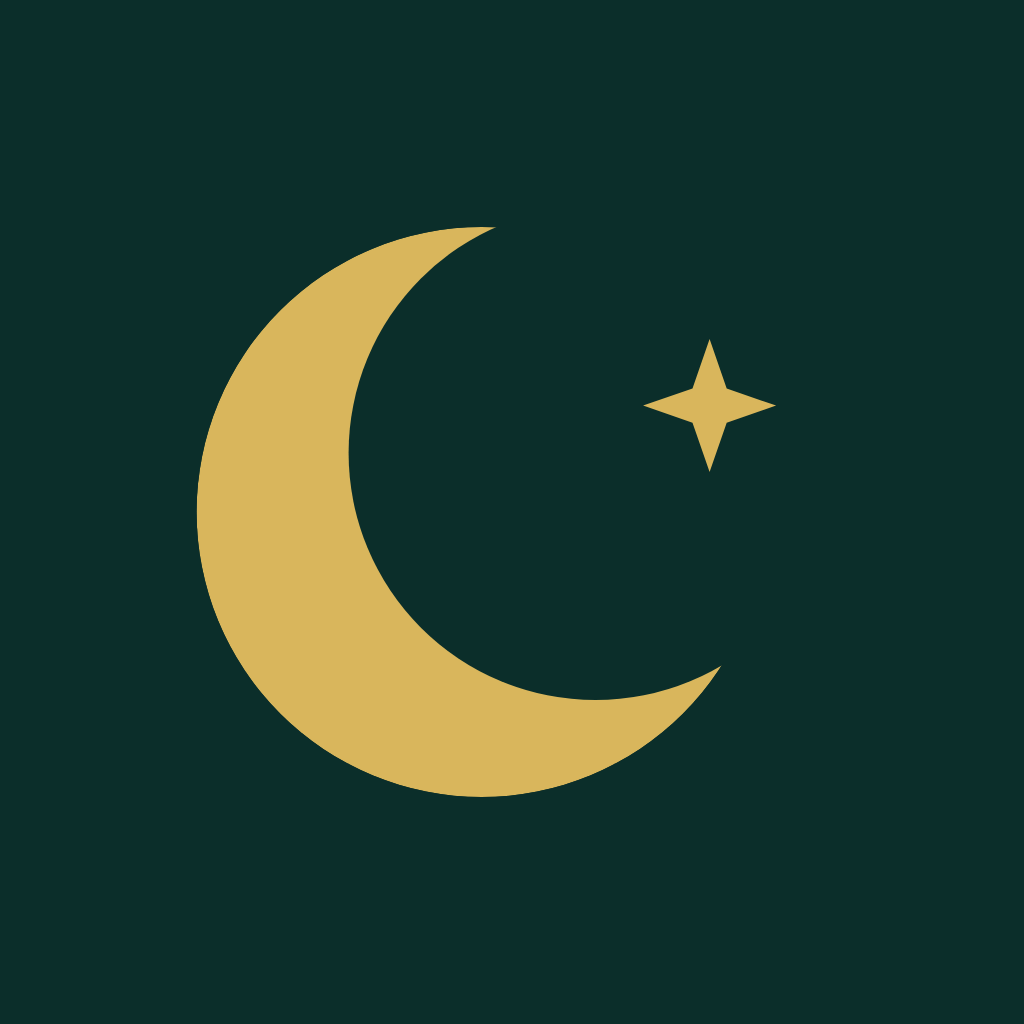
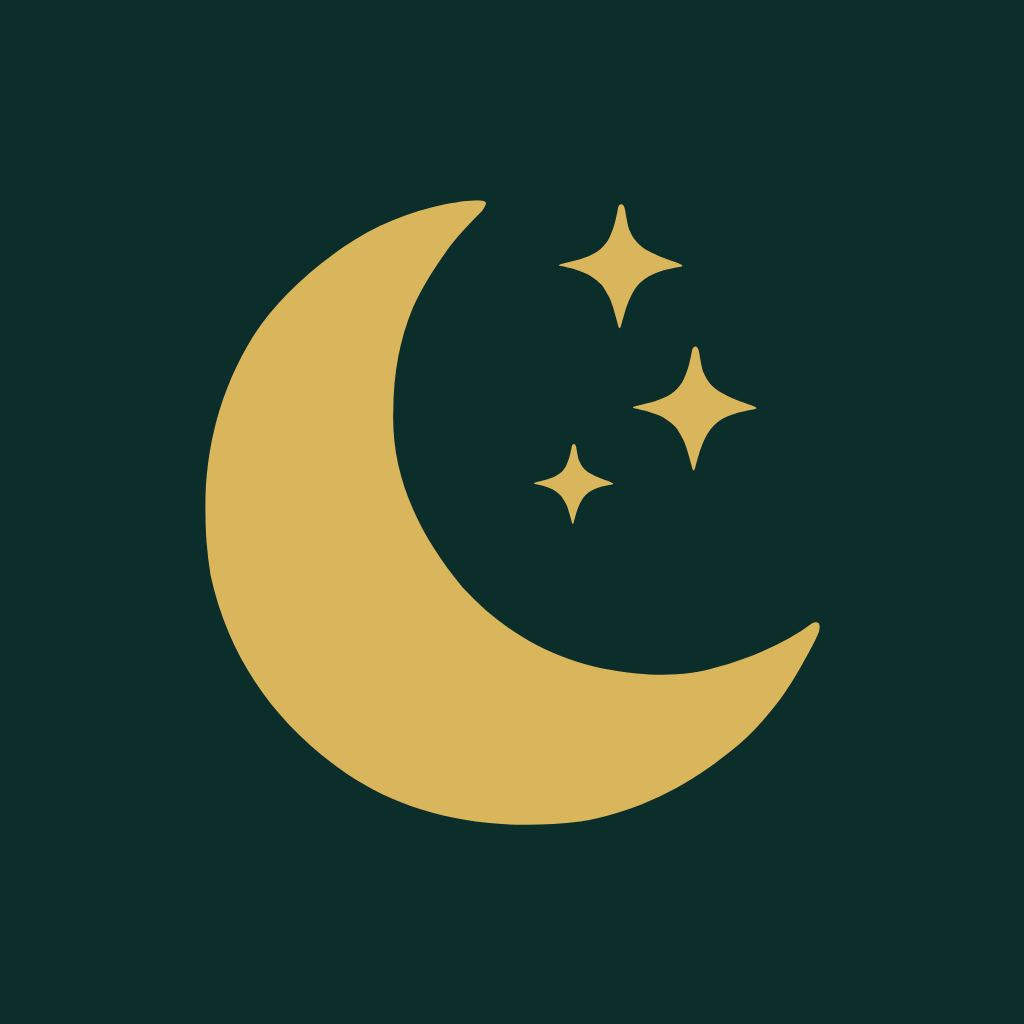
Adopt the new brand mark and add an animated opening
The two SVGs arrived with their names swapped: baraka-icon.svg held the
"baraka stories" wordmark and baraka-logo.svg held the crescent mark. Renamed
so each file is what it says, since everything downstream reads by name.

Every app icon is now regenerated from the mark: the launcher icon, the Android
adaptive foreground and its monochrome twin for themed icons, the splash art,
and both favicons. Same brand gold on the same deep green as before, so the
identity does not shift — only the artwork, which now carries three sparkles
instead of one. No paths in app.json changed.

The opening animation plays the relationship the artwork already has: the
crescent is the letter C in "baraka", so it spins, shrinks and settles into
exactly that slot while the wordmark fades up around it. The landing is
measured rather than eyeballed — both files share a 1500 viewBox, the crescent
inside the wordmark sits at (936.9, 619.5) at 189.2 units across, and the
component derives its end scale and offset from those numbers, so it stays
correct at any screen size.

Drawn in SVG rather than played as a video. A video would need a fixed
resolution, a background that never quite matches the splash, and a decoder on
the critical path of a cold start; vectors stay sharp at every density, weigh
almost nothing, and need no new dependency — react-native-svg is already here.

The handoff from the native splash is the part that sells it: the native splash
[…]

diff --git a/apps/mobile/src/brand/artwork.ts b/apps/mobile/src/brand/artwork.ts
@@ -1,0 +1,32 @@
+/**
+ * Brand artwork as inline SVG, for `SvgXml` from react-native-svg.
+ *
+ * Generated from `apps/mobile/assets/baraka-icon.svg` (the crescent mark) and
+ * `apps/mobile/assets/baraka-logo.svg` (the "baraka stories" wordmark), with the
+ * white fills swapped for brand colours. Regenerate rather than hand-edit.
+ *
+ * Both share a 1500x1500 viewBox, which is what lets the splash animation line
+ * the standalone mark up exactly with the crescent inside the wordmark.
+ */
+
+/** Shared viewBox of both files. */
+export const BRAND_VIEWBOX = 1500;
+
+/**
+ * Where the crescent sits inside the wordmark, in viewBox units, measured from
+ * the artwork itself: x 842.3, y 523.3, 189.2 wide, 192.4 tall.
+ */
+export const WORDMARK_MARK_CENTRE = { x: 936.9, y: 619.5 } as const;
+
+/** The mark's drawn content relative to its own canvas: centred, 92.7% wide. */
+export const MARK_CONTENT_RATIO = 0.927;
+export const MARK_CONTENT_SIZE = 1390.5;
+
+/** Scale that makes the standalone mark match the wordmark's crescent. */
+export const MARK_END_SCALE = 189.2 / MARK_CONTENT_SIZE;
+
+export const BARAKA_MARK =
+  '<svg xmlns="http://www.w3.org/2000/svg" xmlns:xlink="http://www.w3.org/1999/xlink" width="2000" zoomAndPan="magnify" viewBox="0 0 1500 1499.999933" height="2000" preserveAspectRatio="xMidYMid meet" version="1.0"><defs><clipPath id="e9aa5293ed"><path d="M 54.765625 43.28125 L 1445.261719 43.28125 L 1445.261719 1457 L 54.765625 1457 Z M 54.765625 43.28125 " clip-rule="nonzero"/></clipPath></defs><g clip-path="url(#e9aa5293ed)"><path fill="#d9b65c" d="M 599.808594 51.78125 L 612.984375 49.683594 C 669.199219 40.246094 694.625 41.34375 689.25 52.972656 C 688.203125 57.46875 684.9375 62.933594 679.453125 69.363281 C 638.554688 110.347656 611.566406 141.199219 598.492188 161.917969 C 566.996094 206.132812 542.433594 247.5 524.808594 286.011719 C 495.1875 356.742188 480.34375 435.527344 480.277344 522.375 C 476.054688 656.3125 528.390625 788.703125 637.296875 919.539062 C 743.265625 1035.222656 874.492188 1100.101562 1030.980469 1114.183594 C 1098.550781 1120.5625 1158.132812 1116.066406 1209.71875 1100.707031 C 1296.359375 1077.210938 1369.113281 1043.738281 1427.992188 1000.300781 C 1437.855469 996.621094 1443.5 998.515625 1444.921875 1005.972656 C 1446.75 1012.410156 1441.957031 1026.179688 1430.527344 1047.285156 C 1402.074219 1101.398438 1377.78125 1142.121094 1357.640625 1169.453125 C 1319.757812 1220.515625 1281.957031 1260.609375 1244.242188 1289.75 C 1138.160156 1375.667969 1024.675781 1428.816406 903.796875 1449.191406 C 694.636719 1473.691406 518.0625 1437.5 374.074219 1340.609375 C 209.664062 1226.398438 107.175781 1076.539062 66.613281 891.027344 C 35.085938 687.289062 66.839844 508.136719 161.867188 353.570312 C 208.308594 280.3125 277.359375 211.933594 369.019531 148.425781 C 437.402344 101.355469 514.332031 69.140625 599.808594 51.78125 " fill-opacity="1" fill-rule="nonzero"/></g><path fill="#d9b65c" d="M 988.007812 65.558594 L 986.101562 74.738281 C 982.742188 93.394531 977.351562 110.734375 969.945312 126.765625 C 964.824219 137.324219 957.679688 146.574219 948.511719 154.515625 C 938.875 162.316406 927.347656 168.519531 913.925781 173.117188 C 906.621094 176.183594 888.144531 181.21875 858.507812 188.210938 C 855.910156 189.015625 854.730469 189.746094 854.964844 190.417969 C 855.332031 191.070312 857.105469 191.765625 860.292969 192.5 C 878.113281 196.457031 888.15625 198.878906 890.421875 199.78125 C 896.886719 201.617188 903.582031 203.957031 910.503906 206.804688 C 924.734375 212.347656 937.527344 220.828125 948.867188 232.25 C 952.371094 234.472656 958.898438 244.605469 968.449219 262.65625 C 973.117188 270.589844 980.066406 292.417969 989.289062 328.152344 C 990.339844 331.453125 991.328125 333.144531 992.273438 333.222656 C 993.316406 333.011719 994.378906 331.160156 995.457031 327.671875 C 1003.71875 297.8125 1008.078125 282.972656 1008.527344 283.167969 C 1011.125 275.617188 1014.242188 268.078125 1017.878906 260.558594 C 1021.511719 253.035156 1025.789062 246.007812 1030.714844 239.46875 L 1038.671875 230.378906 L 1047.722656 222.648438 C 1054.132812 217.976562 1060.90625 214.074219 1068.03125 210.945312 C 1075.15625 207.816406 1082.214844 205.265625 1089.21875 203.289062 C 1089.242188 202.738281 1102.757812 199.722656 1129.757812 194.238281 C 1132.839844 193.460938 1134.40625 192.589844 1134.46875 191.621094 L 1133.222656 189.972656 L 1124.28125 185.730469 C 1096.457031 175.914062 1078.019531 168.734375 1068.960938 164.199219 C 1052.378906 155.617188 1043.101562 150.085938 1041.136719 147.605469 C 1035.921875 143.410156 1031.488281 138.953125 1027.816406 134.230469 L 1022.777344 127.058594 C 1019.761719 122.1875 1017.285156 117.265625 1015.355469 112.304688 C 1012.738281 108.667969 1009.171875 92.84375 1004.660156 64.832031 C 1004.0625 61.765625 1002.855469 58.660156 1001.058594 55.507812 C 998.574219 51.960938 995.769531 51.410156 992.632812 53.847656 C 989.957031 55.886719 988.414062 59.792969 988.007812 65.558594 " fill-opacity="1" fill-rule="nonzero"/><path fill="#d9b65c" d="M 1155.488281 387.558594 L 1153.582031 396.738281 C 1150.214844 415.394531 1144.835938 432.730469 1137.429688 448.761719 C 1132.304688 459.324219 1125.15625 468.578125 1115.992188 476.511719 C 1106.359375 484.3125 1094.828125 490.515625 1081.40625 495.109375 C 1074.09375 498.179688 1055.625 503.210938 1025.988281 510.210938 C 1023.386719 511.007812 1022.207031 511.746094 1022.441406 512.410156 C 1022.804688 513.0625 1024.585938 513.757812 1027.765625 514.503906 C 1045.59375 518.453125 1055.636719 520.878906 1057.898438 521.777344 C 1064.363281 523.617188 1071.054688 525.960938 1077.976562 528.804688 C 1092.214844 534.34375 1105.003906 542.824219 1116.347656 554.242188 C 1119.847656 556.46875 1126.371094 566.605469 1135.925781 584.648438 C 1140.597656 592.582031 1147.542969 614.417969 1156.773438 650.144531 C 1157.8125 653.453125 1158.808594 655.144531 1159.75 655.214844 C 1160.796875 655.007812 1161.859375 653.160156 1162.933594 649.671875 C 1171.203125 619.8125 1175.558594 604.976562 1176.007812 605.160156 C 1178.601562 597.609375 1181.722656 590.078125 1185.355469 582.558594 C 1188.992188 575.039062 1193.269531 568.007812 1198.191406 561.464844 L 1206.15625 552.375 L 1215.199219 544.644531 C 1221.617188 539.976562 1228.378906 536.074219 1235.503906 532.945312 C 1242.628906 529.8125 1249.695312 527.261719 1256.699219 525.28125 C 1256.726562 524.738281 1270.238281 521.71875 1297.238281 516.234375 C 1300.320312 515.460938 1301.890625 514.585938 1301.949219 513.617188 L 1300.695312 511.96875 L 1291.757812 507.726562 C 1263.941406 497.910156 1245.5 490.730469 1236.441406 486.195312 C 1219.851562 477.613281 1210.582031 472.082031 1208.613281 469.601562 C 1203.40625 465.40625 1198.964844 460.949219 1195.296875 456.226562 L 1190.257812 449.058594 C 1187.242188 444.183594 1184.769531 439.261719 1182.832031 434.300781 C 1180.214844 430.667969 1176.648438 414.84375 1172.136719 386.828125 C 1171.535156 383.765625 1170.339844 380.65625 1168.535156 377.511719 C 1166.054688 373.964844 1163.242188 373.410156 1160.109375 375.851562 C 1157.4375 377.886719 1155.898438 381.789062 1155.488281 387.558594 " fill-opacity="1" fill-rule="nonzero"/><path fill="#d9b65c" d="M 883.507812 603.441406 L 882.277344 609.355469 C 880.109375 621.375 876.640625 632.550781 871.871094 642.882812 C 868.566406 649.691406 863.960938 655.652344 858.058594 660.765625 C 851.84375 665.796875 844.414062 669.789062 835.765625 672.753906 C 831.054688 674.734375 819.148438 677.976562 800.050781 682.488281 C 798.371094 683.003906 797.613281 683.476562 797.765625 683.902344 C 798 684.328125 799.144531 684.777344 801.195312 685.25 C 812.6875 687.796875 819.160156 689.359375 820.617188 689.941406 C 824.78125 691.121094 829.09375 692.632812 833.554688 694.464844 C 842.734375 698.039062 850.972656 703.503906 858.285156 710.859375 C 860.539062 712.300781 864.746094 718.832031 870.90625 730.460938 C 873.914062 735.574219 878.390625 749.644531 884.332031 772.671875 C 885.011719 774.800781 885.652344 775.890625 886.257812 775.9375 C 886.929688 775.800781 887.617188 774.609375 888.304688 772.367188 C 893.632812 753.121094 896.445312 743.554688 896.730469 743.679688 C 898.410156 738.816406 900.417969 733.957031 902.761719 729.109375 C 905.101562 724.265625 907.859375 719.734375 911.03125 715.515625 L 916.160156 709.664062 L 921.988281 704.675781 C 926.125 701.667969 930.488281 699.152344 935.078125 697.136719 C 939.671875 695.121094 944.222656 693.476562 948.738281 692.199219 C 948.75 691.847656 957.457031 689.898438 974.859375 686.371094 C 976.851562 685.867188 977.863281 685.308594 977.898438 684.679688 L 977.097656 683.621094 L 971.332031 680.886719 C 953.402344 674.558594 941.519531 669.933594 935.675781 667.007812 C 924.992188 661.476562 919.015625 657.914062 917.746094 656.3125 C 914.390625 653.609375 911.527344 650.738281 909.164062 647.695312 L 905.914062 643.074219 C 903.96875 639.933594 902.375 636.765625 901.128906 633.566406 C 899.445312 631.222656 897.144531 621.023438 894.238281 602.96875 C 893.847656 600.996094 893.078125 598.988281 891.921875 596.964844 C 890.320312 594.675781 888.511719 594.320312 886.484375 595.890625 C 884.765625 597.203125 883.769531 599.71875 883.507812 603.441406 " fill-opacity="1" fill-rule="nonzero"/></svg>';
+
+export const BARAKA_WORDMARK =
+  '<svg xmlns="http://www.w3.org/2000/svg" xmlns:xlink="http://www.w3.org/1999/xlink" width="2000" zoomAndPan="magnify" viewBox="0 0 1500 1499.999933" height="2000" preserveAspectRatio="xMidYMid meet" version="1.0"><defs><g/><clipPath id="19de97c259"><rect x="0" width="193" y="0" height="471"/></clipPath><clipPath id="ce127fbe94"><path d="M 842.226562 523.296875 L 1031.226562 523.296875 L 1031.226562 716 L 842.226562 716 Z M 842.226562 523.296875 " clip-rule="nonzero"/></clipPath></defs><g transform="matrix(1, 0, 0, 1, 1031, 342)"><g clip-path="url(#19de97c259)"><g fill="#f3efe4" fill-opacity="1"><g transform="translate(0.47682, 368.758115)"><g><path d="M 72.421875 3.53125 C 60.515625 3.53125 50.179688 1.339844 41.421875 -3.03125 C 32.671875 -7.40625 25.9375 -13.832031 21.21875 -22.3125 C 16.5 -30.789062 14.140625 -40.984375 14.140625 -52.890625 C 14.140625 -63.890625 16.5 -73.125 21.21875 -80.59375 C 25.9375 -88.0625 33.234375 -94.179688 43.109375 -98.953125 C 52.992188 -103.722656 65.910156 -107.398438 81.859375 -109.984375 C 92.972656 -111.773438 101.421875 -113.738281 107.203125 -115.875 C 112.984375 -118.007812 116.882812 -120.421875 118.90625 -123.109375 C 120.925781 -125.804688 121.9375 -129.234375 121.9375 -133.390625 C 121.9375 -139.347656 119.859375 -143.894531 115.703125 -147.03125 C 111.554688 -150.175781 104.65625 -151.75 95 -151.75 C 84.664062 -151.75 74.835938 -149.445312 65.515625 -144.84375 C 56.191406 -140.238281 48.109375 -134.175781 41.265625 -126.65625 L 37.890625 -126.65625 L 18.359375 -156.125 C 27.785156 -166.570312 39.289062 -174.710938 52.875 -180.546875 C 66.46875 -186.390625 81.289062 -189.3125 97.34375 -189.3125 C 121.9375 -189.3125 139.734375 -184.085938 150.734375 -173.640625 C 161.742188 -163.203125 167.25 -148.382812 167.25 -129.1875 L 167.25 -48.5 C 167.25 -40.195312 170.894531 -36.046875 178.1875 -36.046875 C 181 -36.046875 183.753906 -36.550781 186.453125 -37.5625 L 188.8125 -36.890625 L 192.171875 -4.375 C 189.585938 -2.695312 185.992188 -1.320312 181.390625 -0.25 C 176.785156 0.808594 171.734375 1.34375 166.234375 1.34375 C 155.117188 1.34375 146.445312 -0.785156 140.21875 -5.046875 C 133.988281 -9.316406 129.523438 -16 126.828125 -25.09375 L 123.28125 -25.4375 C 114.1875 -6.125 97.234375 3.53125 72.421875 3.53125 Z M 87.25 -31.328125 C 98.019531 -31.328125 106.632812 -34.945312 113.09375 -42.1875 C 119.550781 -49.425781 122.78125 -59.503906 122.78125 -72.421875 L 122.78125 -91.28125 L 119.578125 -91.953125 C 116.773438 -89.710938 113.097656 -87.832031 108.546875 -86.3125 C 104.003906 -84.800781 97.460938 -83.316406 88.921875 -81.859375 C 78.816406 -80.171875 71.546875 -77.273438 67.109375 -73.171875 C 62.679688 -69.078125 60.46875 -63.269531 60.46875 -55.75 C 60.46875 -47.78125 62.820312 -41.71875 67.53125 -37.5625 C 72.25 -33.40625 78.820312 -31.328125 87.25 -31.328125 Z M 87.25 -31.328125 "/></g></g></g></g></g><g fill="#f3efe4" fill-opacity="1"><g transform="translate(196.851549, 719.188044)"><g><path d="M 129.84375 3.53125 C 106.15625 3.53125 88.53125 -5.335938 76.96875 -23.078125 L 73.4375 -22.40625 L 73.4375 0 L 26.78125 0 L 26.78125 -260.375 L 73.4375 -260.375 L 73.4375 -163.875 L 76.96875 -163.203125 C 83.363281 -172.066406 90.910156 -178.628906 99.609375 -182.890625 C 108.316406 -187.160156 118.734375 -189.296875 130.859375 -189.296875 C 145.898438 -189.296875 159.035156 -185.757812 170.265625 -178.6875 C 181.492188 -171.613281 190.25 -160.863281 196.53125 -146.4375 C 202.820312 -132.007812 205.96875 -114.128906 205.96875 -92.796875 C 205.96875 -71.691406 202.710938 -53.925781 196.203125 -39.5 C 189.691406 -25.070312 180.707031 -14.289062 169.25 -7.15625 C 157.800781 -0.03125 144.664062 3.53125 129.84375 3.53125 Z M 115.703125 -36.046875 C 129.398438 -36.046875 139.84375 -40.617188 147.03125 -49.765625 C 154.21875 -58.921875 157.8125 -73.265625 157.8125 -92.796875 C 157.8125 -112.441406 154.21875 -126.835938 147.03125 -135.984375 C 139.84375 -145.140625 129.398438 -149.71875 115.703125 -149.71875 C 102.566406 -149.71875 92.148438 -145.003906 84.453125 -135.578125 C 76.765625 -126.148438 72.921875 -111.890625 72.921875 -92.796875 C 72.921875 -73.710938 76.765625 -59.484375 84.453125 -50.109375 C 92.148438 -40.734375 102.566406 -36.046875 115.703125 -36.046875 Z M 115.703125 -36.046875 "/></g></g></g><g fill="#f3efe4" fill-opacity="1"><g transform="translate(382.082423, 719.188044)"><g><path d="M 72.421875 3.53125 C 60.515625 3.53125 50.179688 1.339844 41.421875 -3.03125 C 32.671875 -7.40625 25.9375 -13.832031 21.21875 -22.3125 C 16.5 -30.789062 14.140625 -40.984375 14.140625 -52.890625 C 14.140625 -63.890625 16.5 -73.117188 21.21875 -80.578125 C 25.9375 -88.046875 33.234375 -94.164062 43.109375 -98.9375 C 52.992188 -103.71875 65.910156 -107.398438 81.859375 -109.984375 C 92.972656 -111.773438 101.421875 -113.738281 107.203125 -115.875 C 112.984375 -118.007812 116.882812 -120.421875 118.90625 -123.109375 C 120.925781 -125.804688 121.9375 -129.234375 121.9375 -133.390625 C 121.9375 -139.335938 119.859375 -143.882812 115.703125 -147.03125 C 111.546875 -150.175781 104.640625 -151.75 94.984375 -151.75 C 84.660156 -151.75 74.835938 -149.445312 65.515625 -144.84375 C 56.191406 -140.238281 48.109375 -134.175781 41.265625 -126.65625 L 37.890625 -126.65625 L 18.359375 -156.125 C 27.785156 -166.5625 39.289062 -174.695312 52.875 -180.53125 C 66.46875 -186.375 81.289062 -189.296875 97.34375 -189.296875 C 121.9375 -189.296875 139.734375 -184.078125 150.734375 -173.640625 C 161.734375 -163.203125 167.234375 -148.378906 167.234375 -129.171875 L 167.234375 -48.5 C 167.234375 -40.195312 170.882812 -36.046875 178.1875 -36.046875 C 180.988281 -36.046875 183.738281 -36.550781 186.4375 -37.5625 L 188.796875 -36.890625 L 192.171875 -4.375 C 189.585938 -2.695312 185.992188 -1.320312 181.390625 -0.25 C 176.785156 0.808594 171.734375 1.34375 166.234375 1.34375 C 155.117188 1.34375 146.441406 -0.785156 140.203125 -5.046875 C 133.972656 -9.316406 129.507812 -16 126.8125 -25.09375 L 123.28125 -25.4375 C 114.1875 -6.125 97.234375 3.53125 72.421875 3.53125 Z M 87.234375 -31.328125 C 98.015625 -31.328125 106.632812 -34.945312 113.09375 -42.1875 C 119.550781 -49.425781 122.78125 -59.503906 122.78125 -72.421875 L 122.78125 -91.28125 L 119.578125 -91.953125 C 116.765625 -89.710938 113.082031 -87.832031 108.53125 -86.3125 C 103.988281 -84.800781 97.453125 -83.316406 88.921875 -81.859375 C 78.816406 -80.171875 71.546875 -77.273438 67.109375 -73.171875 C 62.679688 -69.078125 60.46875 -63.269531 60.46875 -55.75 C 60.46875 -47.769531 62.820312 -41.703125 67.53125 -37.546875 C 72.25 -33.398438 78.816406 -31.328125 87.234375 -31.328125 Z M 87.234375 -31.328125 "/></g></g></g><g fill="#f3efe4" fill-opacity="1"><g transform="translate(540.70288, 719.188044)"><g><path d="M 26.78125 0 L 26.78125 -185.765625 L 72.078125 -185.765625 L 72.078125 -158.140625 L 75.625 -157.46875 C 80.113281 -167.800781 86.003906 -175.378906 93.296875 -180.203125 C 100.597656 -185.035156 109.472656 -187.453125 119.921875 -187.453125 C 130.472656 -187.453125 138.5 -185.65625 144 -182.0625 L 136.078125 -141.8125 L 132.546875 -141.140625 C 129.515625 -142.367188 126.59375 -143.265625 123.78125 -143.828125 C 120.976562 -144.390625 117.554688 -144.671875 113.515625 -144.671875 C 100.492188 -144.671875 90.554688 -140.09375 83.703125 -130.9375 C 76.859375 -121.789062 73.4375 -107.113281 73.4375 -86.90625 L 73.4375 0 Z M 26.78125 0 "/></g></g></g><g fill="#f3efe4" fill-opacity="1"><g transform="translate(645.597241, 719.188044)"><g><path d="M 72.421875 3.53125 C 60.515625 3.53125 50.179688 1.339844 41.421875 -3.03125 C 32.671875 -7.40625 25.9375 -13.832031 21.21875 -22.3125 C 16.5 -30.789062 14.140625 -40.984375 14.140625 -52.890625 C 14.140625 -63.890625 16.5 -73.117188 21.21875 -80.578125 C 25.9375 -88.046875 33.234375 -94.164062 43.109375 -98.9375 C 52.992188 -103.71875 65.910156 -107.398438 81.859375 -109.984375 C 92.972656 -111.773438 101.421875 -113.738281 107.203125 -115.875 C 112.984375 -118.007812 116.882812 -120.421875 118.90625 -123.109375 C 120.925781 -125.804688 121.9375 -129.234375 121.9375 -133.390625 C 121.9375 -139.335938 119.859375 -143.882812 115.703125 -147.03125 C 111.546875 -150.175781 104.640625 -151.75 94.984375 -151.75 C 84.660156 -151.75 74.835938 -149.445312 65.515625 -144.84375 C 56.191406 -140.238281 48.109375 -134.175781 41.265625 -126.65625 L 37.890625 -126.65625 L 18.359375 -156.125 C 27.785156 -166.5625 39.289062 -174.695312 52.875 -180.53125 C 66.46875 -186.375 81.289062 -189.296875 97.34375 -189.296875 C 121.9375 -189.296875 139.734375 -184.078125 150.734375 -173.640625 C 161.734375 -163.203125 167.234375 -148.378906 167.234375 -129.171875 L 167.234375 -48.5 C 167.234375 -40.195312 170.882812 -36.046875 178.1875 -36.046875 C 180.988281 -36.046875 183.738281 -36.550781 186.4375 -37.5625 L 188.796875 -36.890625 L 192.171875 -4.375 C 189.585938 -2.695312 185.992188 -1.320312 181.390625 -0.25 C 176.785156 0.808594 171.734375 1.34375 166.234375 1.34375 C 155.117188 1.34375 146.441406 -0.785156 140.203125 -5.046875 C 133.972656 -9.316406 129.507812 -16 126.8125 -25.09375 L 123.28125 -25.4375 C 114.1875 -6.125 97.234375 3.53125 72.421875 3.53125 Z M 87.234375 -31.328125 C 98.015625 -31.328125 106.632812 -34.945312 113.09375 -42.1875 C 119.550781 -49.425781 122.78125 -59.503906 122.78125 -72.421875 L 122.78125 -91.28125 L 119.578125 -91.953125 C 116.765625 -89.710938 113.082031 -87.832031 108.53125 -86.3125 C 103.988281 -84.800781 97.453125 -83.316406 88.921875 -81.859375 C 78.816406 -80.171875 71.546875 -77.273438 67.109375 -73.171875 C 62.679688 -69.078125 60.46875 -63.269531 60.46875 -55.75 C 60.46875 -47.769531 62.820312 -41.703125 67.53125 -37.546875 C 72.25 -33.398438 78.816406 -31.328125 87.234375 -31.328125 Z M 87.234375 -31.328125 "/></g></g></g><g clip-path="url(#ce127fbe94)"><path fill="#f3efe4" d="M 916.410156 524.453125 L 918.203125 524.167969 C 925.851562 522.886719 929.3125 523.035156 928.582031 524.617188 C 928.441406 525.230469 927.996094 525.972656 927.25 526.847656 C 921.683594 532.425781 918.007812 536.625 916.230469 539.445312 C 911.941406 545.460938 908.601562 551.09375 906.199219 556.335938 C 902.167969 565.960938 900.148438 576.683594 900.140625 588.503906 C 899.566406 606.734375 906.6875 624.75 921.511719 642.558594 C 935.933594 658.304688 953.792969 667.132812 975.09375 669.050781 C 984.289062 669.917969 992.398438 669.308594 999.417969 667.214844 C 1011.210938 664.019531 1021.113281 659.464844 1029.128906 653.550781 C 1030.46875 653.050781 1031.238281 653.308594 1031.429688 654.324219 C 1031.679688 655.199219 1031.027344 657.074219 1029.472656 659.945312 C 1025.601562 667.308594 1022.292969 672.851562 1019.550781 676.574219 C 1014.394531 683.523438 1009.25 688.980469 1004.117188 692.945312 C 989.679688 704.640625 974.234375 711.875 957.78125 714.644531 C 929.316406 717.980469 905.28125 713.054688 885.6875 699.867188 C 863.308594 684.324219 849.359375 663.925781 843.839844 638.679688 C 839.546875 610.949219 843.871094 586.566406 856.804688 565.53125 C 863.125 555.558594 872.523438 546.253906 884.996094 537.609375 C 894.304688 531.203125 904.777344 526.816406 916.410156 524.453125 " fill-opacity="1" fill-rule="nonzero"/></g><path fill="#f3efe4" d="M 969.242188 526.328125 L 968.984375 527.578125 C 968.527344 530.117188 967.792969 532.480469 966.785156 534.660156 C 966.089844 536.097656 965.117188 537.355469 963.867188 538.4375 C 962.558594 539.5 960.988281 540.34375 959.160156 540.96875 C 958.167969 541.386719 955.652344 542.070312 951.617188 543.023438 C 951.265625 543.132812 951.105469 543.230469 951.136719 543.324219 C 951.1875 543.414062 951.425781 543.507812 951.863281 543.605469 C 954.285156 544.144531 955.652344 544.476562 955.960938 544.597656 C 956.84375 544.847656 957.753906 545.167969 958.695312 545.554688 C 960.632812 546.308594 962.375 547.460938 963.917969 549.015625 C 964.394531 549.320312 965.28125 550.699219 966.582031 553.15625 C 967.21875 554.234375 968.164062 557.207031 969.417969 562.070312 C 969.5625 562.519531 969.695312 562.75 969.824219 562.757812 C 969.964844 562.730469 970.109375 562.480469 970.257812 562.003906 C 971.382812 557.941406 971.976562 555.921875 972.035156 555.945312 C 972.390625 554.917969 972.816406 553.894531 973.308594 552.871094 C 973.804688 551.847656 974.386719 550.890625 975.054688 550 L 976.140625 548.761719 L 977.371094 547.710938 C 978.242188 547.074219 979.164062 546.542969 980.136719 546.117188 C 981.105469 545.691406 982.066406 545.34375 983.019531 545.074219 C 983.023438 545 984.863281 544.589844 988.535156 543.84375 C 988.957031 543.738281 989.167969 543.621094 989.175781 543.488281 L 989.007812 543.261719 L 987.792969 542.6875 C 984.003906 541.351562 981.496094 540.371094 980.261719 539.753906 C 978.003906 538.585938 976.742188 537.835938 976.476562 537.496094 C 975.765625 536.925781 975.160156 536.320312 974.660156 535.675781 L 973.976562 534.699219 C 973.566406 534.039062 973.230469 533.367188 972.964844 532.691406 C 972.609375 532.199219 972.125 530.042969 971.511719 526.230469 C 971.429688 525.8125 971.265625 525.390625 971.019531 524.960938 C 970.683594 524.480469 970.300781 524.40625 969.875 524.738281 C 969.507812 525.015625 969.300781 525.546875 969.242188 526.328125 " fill-opacity="1" fill-rule="nonzero"/><path fill="#f3efe4" d="M 992.039062 570.15625 L 991.777344 571.40625 C 991.320312 573.945312 990.589844 576.304688 989.582031 578.484375 C 988.882812 579.921875 987.910156 581.183594 986.664062 582.261719 C 985.351562 583.324219 983.78125 584.167969 981.957031 584.792969 C 980.960938 585.210938 978.445312 585.894531 974.414062 586.847656 C 974.058594 586.957031 973.898438 587.058594 973.929688 587.148438 C 973.980469 587.238281 974.222656 587.332031 974.65625 587.433594 C 977.082031 587.96875 978.449219 588.300781 978.757812 588.421875 C 979.636719 588.671875 980.546875 588.992188 981.488281 589.378906 C 983.425781 590.132812 985.167969 591.285156 986.710938 592.839844 C 987.1875 593.144531 988.074219 594.523438 989.375 596.980469 C 990.011719 598.058594 990.957031 601.03125 992.214844 605.894531 C 992.355469 606.34375 992.492188 606.574219 992.617188 606.585938 C 992.761719 606.554688 992.90625 606.304688 993.050781 605.828125 C 994.175781 601.765625 994.769531 599.746094 994.832031 599.769531 C 995.183594 598.742188 995.609375 597.71875 996.101562 596.695312 C 996.597656 595.671875 997.179688 594.714844 997.851562 593.824219 L 998.933594 592.585938 L 1000.164062 591.535156 C 1001.039062 590.898438 1001.960938 590.367188 1002.929688 589.941406 C 1003.898438 589.515625 1004.859375 589.167969 1005.8125 588.898438 C 1005.816406 588.824219 1007.65625 588.414062 1011.332031 587.667969 C 1011.75 587.5625 1011.964844 587.445312 1011.972656 587.3125 L 1011.800781 587.085938 L 1010.585938 586.511719 C 1006.800781 585.175781 1004.289062 584.195312 1003.054688 583.578125 C 1000.796875 582.410156 999.535156 581.660156 999.269531 581.320312 C 998.558594 580.75 997.957031 580.144531 997.457031 579.5 L 996.769531 578.527344 C 996.359375 577.863281 996.023438 577.191406 995.761719 576.515625 C 995.402344 576.023438 994.917969 573.867188 994.304688 570.054688 C 994.222656 569.640625 994.058594 569.214844 993.8125 568.789062 C 993.476562 568.304688 993.09375 568.230469 992.667969 568.5625 C 992.304688 568.839844 992.09375 569.371094 992.039062 570.15625 " fill-opacity="1" fill-rule="nonzero"/><path fill="#f3efe4" d="M 955.019531 599.539062 L 954.855469 600.34375 C 954.558594 601.976562 954.085938 603.5 953.4375 604.90625 C 952.988281 605.832031 952.359375 606.644531 951.558594 607.339844 C 950.710938 608.023438 949.699219 608.566406 948.523438 608.972656 C 947.882812 609.242188 946.261719 609.679688 943.664062 610.296875 C 943.433594 610.367188 943.332031 610.429688 943.351562 610.488281 C 943.382812 610.546875 943.539062 610.605469 943.816406 610.671875 C 945.382812 611.019531 946.261719 611.230469 946.460938 611.308594 C 947.027344 611.472656 947.617188 611.675781 948.222656 611.925781 C 949.472656 612.414062 950.59375 613.15625 951.589844 614.15625 C 951.894531 614.351562 952.46875 615.242188 953.304688 616.824219 C 953.714844 617.519531 954.324219 619.4375 955.132812 622.570312 C 955.226562 622.859375 955.3125 623.007812 955.394531 623.015625 C 955.488281 622.996094 955.582031 622.832031 955.675781 622.527344 C 956.398438 619.910156 956.78125 618.605469 956.820312 618.625 C 957.050781 617.960938 957.324219 617.300781 957.640625 616.640625 C 957.960938 615.980469 958.335938 615.367188 958.765625 614.792969 L 959.464844 613.996094 L 960.257812 613.316406 C 960.820312 612.90625 961.414062 612.5625 962.039062 612.289062 C 962.664062 612.015625 963.285156 611.792969 963.898438 611.617188 C 963.902344 611.570312 965.085938 611.304688 967.453125 610.824219 C 967.726562 610.753906 967.863281 610.679688 967.867188 610.59375 L 967.757812 610.449219 L 966.972656 610.078125 C 964.535156 609.214844 962.917969 608.585938 962.121094 608.1875 C 960.667969 607.4375 959.855469 606.949219 959.679688 606.734375 C 959.222656 606.367188 958.835938 605.976562 958.511719 605.558594 L 958.070312 604.933594 C 957.804688 604.503906 957.589844 604.074219 957.417969 603.636719 C 957.191406 603.320312 956.878906 601.929688 956.480469 599.472656 C 956.429688 599.203125 956.324219 598.929688 956.167969 598.65625 C 955.949219 598.34375 955.703125 598.296875 955.425781 598.507812 C 955.191406 598.6875 955.058594 599.03125 955.019531 599.539062 " fill-opacity="1" fill-rule="nonzero"/><g fill="#f3efe4" fill-opacity="1"><g transform="translate(225.420424, 1056.179481)"><g><path d="M 86.90625 3.53125 C 74.21875 3.53125 62.59375 2.046875 52.03125 -0.921875 C 41.476562 -3.898438 32.46875 -8 25 -13.21875 C 17.539062 -18.4375 12.015625 -24.414062 8.421875 -31.15625 L 34.359375 -59.109375 L 37.890625 -59.109375 C 44.066406 -50.804688 51.363281 -44.578125 59.78125 -40.421875 C 68.207031 -36.265625 77.359375 -34.1875 87.234375 -34.1875 C 96.335938 -34.1875 103.1875 -35.8125 107.78125 -39.0625 C 112.382812 -42.320312 114.6875 -46.984375 114.6875 -53.046875 C 114.6875 -57.765625 113.03125 -61.722656 109.71875 -64.921875 C 106.40625 -68.117188 101.046875 -70.617188 93.640625 -72.421875 L 69.046875 -78.3125 C 50.640625 -82.695312 37.195312 -89.40625 28.71875 -98.4375 C 20.238281 -107.476562 16 -118.957031 16 -132.875 C 16 -144.445312 18.945312 -154.5 24.84375 -163.03125 C 30.738281 -171.5625 39.046875 -178.070312 49.765625 -182.5625 C 60.492188 -187.050781 72.984375 -189.296875 87.234375 -189.296875 C 103.960938 -189.296875 117.828125 -186.878906 128.828125 -182.046875 C 139.835938 -177.222656 148.429688 -170.769531 154.609375 -162.6875 L 129.6875 -135.75 L 126.3125 -135.75 C 121.144531 -141.582031 115.332031 -145.847656 108.875 -148.546875 C 102.425781 -151.242188 95.210938 -152.59375 87.234375 -152.59375 C 68.828125 -152.59375 59.625 -146.863281 59.625 -135.40625 C 59.625 -130.582031 61.332031 -126.65625 64.75 -123.625 C 68.175781 -120.59375 74.210938 -118.117188 82.859375 -116.203125 L 105.765625 -111.15625 C 124.628906 -107.113281 138.410156 -100.628906 147.109375 -91.703125 C 155.816406 -82.773438 160.171875 -70.789062 160.171875 -55.75 C 160.171875 -43.957031 157.25 -33.566406 151.40625 -24.578125 C 145.570312 -15.597656 137.148438 -8.664062 126.140625 -3.78125 C 115.140625 1.089844 102.0625 3.53125 86.90625 3.53125 Z M 86.90625 3.53125 "/></g></g></g><g fill="#f3efe4" fill-opacity="1"><g transform="translate(379.457451, 1056.179481)"><g><path d="M 128.171875 -44.296875 L 140.296875 -9.765625 C 135.242188 -5.609375 128.898438 -2.351562 121.265625 0 C 113.628906 2.351562 104.984375 3.53125 95.328125 3.53125 C 75.222656 3.53125 59.953125 -1.941406 49.515625 -12.890625 C 39.078125 -23.835938 33.859375 -39.75 33.859375 -60.625 L 33.859375 -148.875 L 5.5625 -148.875 L 5.5625 -185.9375 L 33.859375 -185.9375 L 33.859375 -222.140625 L 80.5 -229.71875 L 80.5 -185.9375 L 133.21875 -185.9375 L 133.21875 -148.875 L 80.5 -148.875 L 80.5 -64 C 80.5 -54.789062 82.40625 -48.082031 86.21875 -43.875 C 90.039062 -39.664062 95.601562 -37.5625 102.90625 -37.5625 C 111.207031 -37.5625 118.445312 -39.804688 124.625 -44.296875 Z M 128.171875 -44.296875 "/></g></g></g><g fill="#f3efe4" fill-opacity="1"><g transform="translate(504.357754, 1056.179481)"><g><path d="M 107.953125 3.53125 C 89.765625 3.53125 73.789062 -0.195312 60.03125 -7.65625 C 46.28125 -15.125 35.613281 -26.070312 28.03125 -40.5 C 20.457031 -54.925781 16.671875 -72.359375 16.671875 -92.796875 C 16.671875 -113.234375 20.457031 -130.691406 28.03125 -145.171875 C 35.613281 -159.660156 46.28125 -170.632812 60.03125 -178.09375 C 73.789062 -185.5625 89.765625 -189.296875 107.953125 -189.296875 C 126.140625 -189.296875 142.109375 -185.5625 155.859375 -178.09375 C 169.617188 -170.632812 180.316406 -159.660156 187.953125 -145.171875 C 195.585938 -130.691406 199.40625 -113.234375 199.40625 -92.796875 C 199.40625 -72.359375 195.585938 -54.925781 187.953125 -40.5 C 180.316406 -26.070312 169.617188 -15.125 155.859375 -7.65625 C 142.109375 -0.195312 126.140625 3.53125 107.953125 3.53125 Z M 107.953125 -36.046875 C 136.804688 -36.046875 151.234375 -54.960938 151.234375 -92.796875 C 151.234375 -112.441406 147.53125 -126.835938 140.125 -135.984375 C 132.71875 -145.140625 121.992188 -149.71875 107.953125 -149.71875 C 79.097656 -149.71875 64.671875 -130.742188 64.671875 -92.796875 C 64.671875 -54.960938 79.097656 -36.046875 107.953125 -36.046875 Z M 107.953125 -36.046875 "/></g></g></g><g fill="#f3efe4" fill-opacity="1"><g transform="translate(703.02619, 1056.179481)"><g><path d="M 26.78125 0 L 26.78125 -185.765625 L 72.078125 -185.765625 L 72.078125 -158.140625 L 75.625 -157.46875 C 80.113281 -167.800781 86.003906 -175.378906 93.296875 -180.203125 C 100.597656 -185.035156 109.472656 -187.453125 119.921875 -187.453125 C 130.472656 -187.453125 138.5 -185.65625 144 -182.0625 L 136.078125 -141.8125 L 132.546875 -141.140625 C 129.515625 -142.367188 126.59375 -143.265625 123.78125 -143.828125 C 120.976562 -144.390625 117.554688 -144.671875 113.515625 -144.671875 C 100.492188 -144.671875 90.554688 -140.09375 83.703125 -130.9375 C 76.859375 -121.789062 73.4375 -107.113281 73.4375 -86.90625 L 73.4375 0 Z M 26.78125 0 "/></g></g></g><g fill="#f3efe4" fill-opacity="1"><g transform="translate(831.463311, 1056.179481)"><g><path d="M 50.015625 -208 C 41.597656 -208 34.75 -210.550781 29.46875 -215.65625 C 24.195312 -220.769531 21.5625 -227.367188 21.5625 -235.453125 C 21.5625 -243.421875 24.195312 -249.957031 29.46875 -255.0625 C 34.75 -260.175781 41.597656 -262.734375 50.015625 -262.734375 C 55.628906 -262.734375 60.625 -261.550781 65 -259.1875 C 69.382812 -256.832031 72.78125 -253.601562 75.1875 -249.5 C 77.601562 -245.40625 78.8125 -240.722656 78.8125 -235.453125 C 78.8125 -230.171875 77.601562 -225.453125 75.1875 -221.296875 C 72.78125 -217.148438 69.382812 -213.894531 65 -211.53125 C 60.625 -209.175781 55.628906 -208 50.015625 -208 Z M 26.78125 0 L 26.78125 -185.765625 L 73.4375 -185.765625 L 73.4375 0 Z M 26.78125 0 "/></g></g></g><g fill="#f3efe4" fill-opacity="1"><g transform="translate(914.258562, 1056.179481)"><g><path d="M 183.578125 -82.359375 L 64.171875 -82.359375 C 65.515625 -66.191406 70.113281 -54.429688 77.96875 -47.078125 C 85.832031 -39.722656 96.554688 -36.046875 110.140625 -36.046875 C 120.804688 -36.046875 129.453125 -38.035156 136.078125 -42.015625 C 142.703125 -46.003906 148.035156 -52.039062 152.078125 -60.125 L 155.625 -60.125 L 186.609375 -40.25 C 180.546875 -27.226562 171.394531 -16.675781 159.15625 -8.59375 C 146.914062 -0.507812 130.578125 3.53125 110.140625 3.53125 C 90.941406 3.53125 74.351562 -0.113281 60.375 -7.40625 C 46.394531 -14.707031 35.613281 -25.570312 28.03125 -40 C 20.457031 -54.425781 16.671875 -72.023438 16.671875 -92.796875 C 16.671875 -113.910156 20.65625 -131.707031 28.625 -146.1875 C 36.601562 -160.664062 47.382812 -171.46875 60.96875 -178.59375 C 74.550781 -185.726562 89.820312 -189.296875 106.78125 -189.296875 C 133.050781 -189.296875 153.175781 -182.332031 167.15625 -168.40625 C 181.132812 -154.488281 188.125 -134.054688 188.125 -107.109375 C 188.125 -97.347656 187.785156 -89.769531 187.109375 -84.375 Z M 143.5 -112.5 C 143.039062 -126.644531 139.753906 -136.945312 133.640625 -143.40625 C 127.523438 -149.863281 118.570312 -153.09375 106.78125 -153.09375 C 83.195312 -153.09375 69.328125 -139.5625 65.171875 -112.5 Z M 143.5 -112.5 "/></g></g></g><g fill="#f3efe4" fill-opacity="1"><g transform="translate(1098.948063, 1056.179481)"><g><path d="M 86.90625 3.53125 C 74.21875 3.53125 62.59375 2.046875 52.03125 -0.921875 C 41.476562 -3.898438 32.46875 -8 25 -13.21875 C 17.539062 -18.4375 12.015625 -24.414062 8.421875 -31.15625 L 34.359375 -59.109375 L 37.890625 -59.109375 C 44.066406 -50.804688 51.363281 -44.578125 59.78125 -40.421875 C 68.207031 -36.265625 77.359375 -34.1875 87.234375 -34.1875 C 96.335938 -34.1875 103.1875 -35.8125 107.78125 -39.0625 C 112.382812 -42.320312 114.6875 -46.984375 114.6875 -53.046875 C 114.6875 -57.765625 113.03125 -61.722656 109.71875 -64.921875 C 106.40625 -68.117188 101.046875 -70.617188 93.640625 -72.421875 L 69.046875 -78.3125 C 50.640625 -82.695312 37.195312 -89.40625 28.71875 -98.4375 C 20.238281 -107.476562 16 -118.957031 16 -132.875 C 16 -144.445312 18.945312 -154.5 24.84375 -163.03125 C 30.738281 -171.5625 39.046875 -178.070312 49.765625 -182.5625 C 60.492188 -187.050781 72.984375 -189.296875 87.234375 -189.296875 C 103.960938 -189.296875 117.828125 -186.878906 128.828125 -182.046875 C 139.835938 -177.222656 148.429688 -170.769531 154.609375 -162.6875 L 129.6875 -135.75 L 126.3125 -135.75 C 121.144531 -141.582031 115.332031 -145.847656 108.875 -148.546875 C 102.425781 -151.242188 95.210938 -152.59375 87.234375 -152.59375 C 68.828125 -152.59375 59.625 -146.863281 59.625 -135.40625 C 59.625 -130.582031 61.332031 -126.65625 64.75 -123.625 C 68.175781 -120.59375 74.210938 -118.117188 82.859375 -116.203125 L 105.765625 -111.15625 C 124.628906 -107.113281 138.410156 -100.628906 147.109375 -91.703125 C 155.816406 -82.773438 160.171875 -70.789062 160.171875 -55.75 C 160.171875 -43.957031 157.25 -33.566406 151.40625 -24.578125 C 145.570312 -15.597656 137.148438 -8.664062 126.140625 -3.78125 C 115.140625 1.089844 102.0625 3.53125 86.90625 3.53125 Z M 86.90625 3.53125 "/></g></g></g></svg>';

diff --git a/apps/mobile/src/brand/AnimatedSplash.tsx b/apps/mobile/src/brand/AnimatedSplash.tsx
@@ -1,0 +1,159 @@
+import { useEffect } from 'react';
+import { Animated, Easing, StyleSheet, useAnimatedValue, useWindowDimensions, View } from 'react-native';
+import { SvgXml } from 'react-native-svg';
+import { ui } from '../theme';
+import {
+  BARAKA_MARK,
+  BARAKA_WORDMARK,
+  BRAND_VIEWBOX,
+  MARK_CONTENT_RATIO,
+  MARK_END_SCALE,
+  WORDMARK_MARK_CENTRE,
+} from './artwork';
+
+/**
+ * The animated opening: the crescent spins, shrinks, and settles into the slot
+ * it occupies inside the wordmark, which fades up around it.
+ *
+ * It is drawn in SVG rather than played as a video. A video would need a fixed
+ * resolution, a background that never quite matches, and a decoder on the
+ * critical path of a cold start; vectors stay sharp at every density, weigh
+ * almost nothing, and need no new dependency.
+ *
+ * The handoff from the native splash is what makes it feel like one thing: the
+ * native splash (`assets/splash-icon.png`) is the same mark on the same ground,
+ * and `START_SCALE` below is computed so the first animated frame is exactly the
+ * size the native splash left it at — no jump, no fade-in.
+ */
+
+/** Native splash art is the mark at half the width of a square, `contain`-fitted. */
+const NATIVE_SPLASH_FRACTION = 0.5;
+
+const SPIN_MS = 1400;
+const HOLD_MS = 350;
+const FADE_MS = 280;
+/** The mark reaches its resting place at this point through the spin. */
+const SETTLE_AT = 0.55;
+
+interface AnimatedSplashProps {
+  /** Called once the overlay has finished fading out. */
+  onDone: () => void;
+}
+
+export function AnimatedSplash({ onDone }: AnimatedSplashProps) {
+  const { width, height } = useWindowDimensions();
+  const travel = useAnimatedValue(0);
+  const spin = useAnimatedValue(0);
+  const fade = useAnimatedValue(0);
+
+  // A square stage: both files share one viewBox, so drawing them at the same
+  // size in the same place makes their coordinates line up exactly.
+  const stage = Math.min(width * 0.86, 420);
+  const unit = stage / BRAND_VIEWBOX;
+
+  // Where the crescent has to end up, relative to the centre of the stage.
+  const endX = (WORDMARK_MARK_CENTRE.x - BRAND_VIEWBOX / 2) * unit;
+  const endY = (WORDMARK_MARK_CENTRE.y - BRAND_VIEWBOX / 2) * unit;
+
+  // Match the size the native splash was already showing, so the swap is invisible.
+  const nativeMarkWidth = Math.min(width, height) * NATIVE_SPLASH_FRACTION;
+  const startScale = nativeMarkWidth / (MARK_CONTENT_RATIO * stage);
+  // A hair larger than the measured crescent, so the gold fully covers the
+  // wordmark's own crescent underneath rather than leaving a pale edge.
+  const endScale = MARK_END_SCALE * 1.015;
+
+  useEffect(() => {
+    const run = Animated.sequence([
+      Animated.parallel([
+        Animated.timing(spin, {
+          toValue: 1,
+          duration: SPIN_MS,
+          easing: Easing.inOut(Easing.cubic),
+          useNativeDriver: true,
+        }),
+        Animated.timing(travel, {
+          toValue: 1,
+          duration: SPIN_MS,
+          easing: Easing.inOut(Easing.cubic),
+          useNativeDriver: true,
+        }),
+      ]),
+      Animated.delay(HOLD_MS),
+      Animated.timing(fade, {
+        toValue: 1,
+        duration: FADE_MS,
+        easing: Easing.in(Easing.quad),
+        useNativeDriver: true,
+      }),
+    ]);
+    run.start(({ finished }) => {
+      if (finished) onDone();
+    });
+    return () => run.stop();
+  }, [spin, travel, fade, onDone]);
+
+  const markStyle = {
+    position: 'absolute' as const,
+    width: stage,
+    height: stage,
+    transform: [
+      {
+        translateX: travel.interpolate({
+          inputRange: [0, SETTLE_AT, 1],
+          outputRange: [0, 0, endX],
+        }),
+      },
+      {
+        translateY: travel.interpolate({
+          inputRange: [0, SETTLE_AT, 1],
+          outputRange: [0, 0, endY],
+        }),
+      },
+      { rotate: spin.interpolate({ inputRange: [0, 1], outputRange: ['0deg', '360deg'] }) },
+      {
+        scale: travel.interpolate({
+          inputRange: [0, SETTLE_AT, 1],
+          outputRange: [startScale, startScale, endScale],
+        }),
+      },
+    ],
+  };
+
+  return (
+    <Animated.View
+      // Ignore touches entirely; the app underneath is already mounted.
+      pointerEvents="none"
+      style={[
+        StyleSheet.absoluteFill,
+        {
+          backgroundColor: ui.bg,
+          alignItems: 'center',
+          justifyContent: 'center',
+          opacity: fade.interpolate({ inputRange: [0, 1], outputRange: [1, 0] }),
+        },
+      ]}
+    >
+      <View style={{ width: stage, height: stage, alignItems: 'center', justifyContent: 'center' }}>
+        {/* Behind: the full wordmark, including its own crescent. */}
+        <Animated.View
+          style={{
+            position: 'absolute',
+            width: stage,
+            height: stage,
+            opacity: travel.interpolate({
+              inputRange: [0, SETTLE_AT, 0.85, 1],
+              outputRange: [0, 0, 1, 1],
+            }),
+          }}
+        >
+          <SvgXml xml={BARAKA_WORDMARK} width="100%" height="100%" />
+        </Animated.View>
+
+        {/* In front: the mark that travels into the wordmark's crescent. */}
+        <Animated.View style={markStyle}>
+          <SvgXml xml={BARAKA_MARK} width="100%" height="100%" />
+        </Animated.View>
+      </View>
+    </Animated.View>
+  );
+}

diff --git a/apps/mobile/app/_layout.tsx b/apps/mobile/app/_layout.tsx
@@ -1,4 +1,4 @@
-import { useEffect } from 'react';
+import { useCallback, useEffect, useState } from 'react';
 import { View } from 'react-native';
 import { Stack } from 'expo-router';
 import * as SplashScreen from 'expo-splash-screen';
@@ -9,11 +9,14 @@ import { ui } from '../src/theme';
 import { useAuthStore } from '../src/auth/store';
 import { useReminderStore } from '../src/notifications/store';
 import { ReminderSheet } from '../src/notifications/ReminderSheet';
+import { AnimatedSplash } from '../src/brand/AnimatedSplash';
 
 SplashScreen.preventAutoHideAsync().catch(() => undefined);
 
 export default function RootLayout() {
   const [fontsLoaded] = useAppFonts();
+  const [splashDone, setSplashDone] = useState(false);
+  const finishSplash = useCallback(() => setSplashDone(true), []);
   const initAuth = useAuthStore((s) => s.init);
   const startSession = useReminderStore((s) => s.startSession);
   useEffect(() => {
@@ -40,6 +43,8 @@ export default function RootLayout() {
       </Stack>
       <ReminderSheet />
       <Toaster />
+      {/* Drawn over the app, which mounts underneath while it plays. */}
+      {!splashDone && <AnimatedSplash onDone={finishSplash} />}
     </View>
   );
 }
